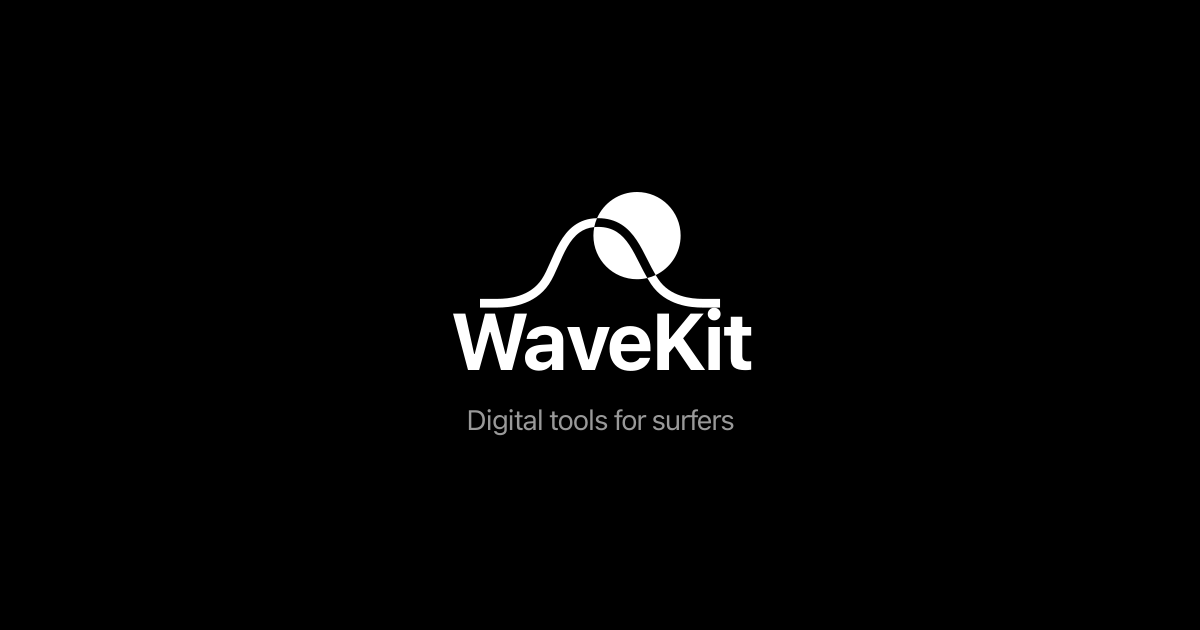
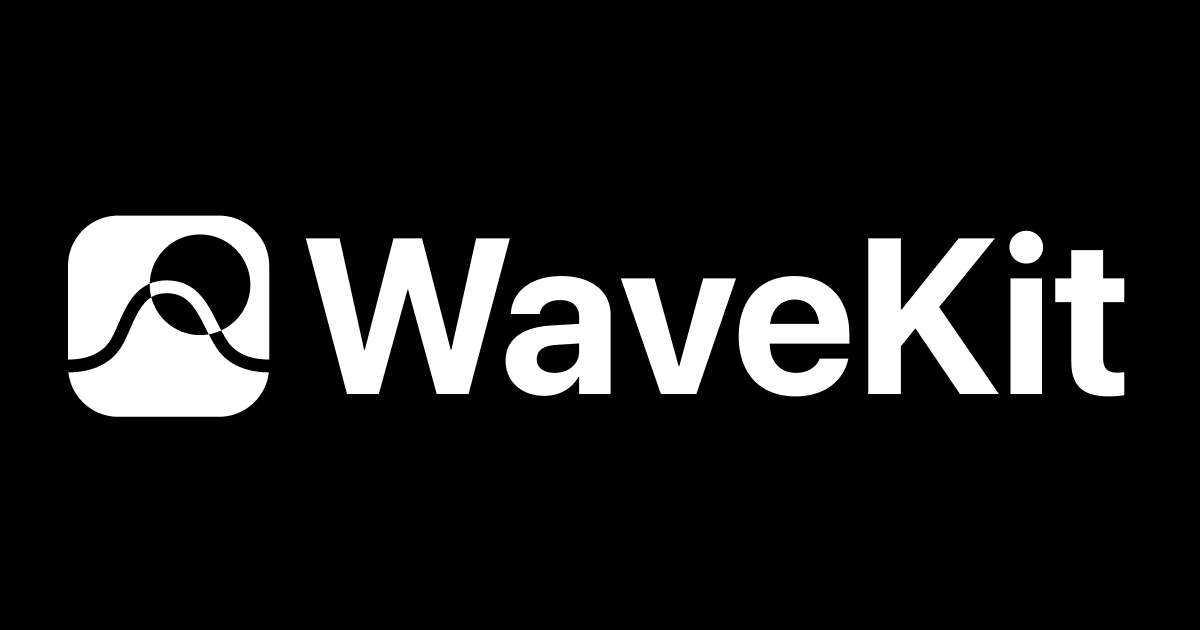
Close #9 #10 #11: OG image, README URL, calendar name prefix
- docs/og-image.png: new 1200×630 OG image from Figma
- README: add production URL jheftmann.github.io/wavekit/
- ICSGenerator: prefix calendar names with 🌊 (e.g. "🌊 Lower Trestles")

Changed region(s): [[0.0308, 0.3016, 0.9558, 0.6937]]

diff --git a/WaveKit/Services/ICSGenerator.swift b/WaveKit/Services/ICSGenerator.swift
@@ -18,7 +18,7 @@ struct ICSGenerator {
             "BEGIN:VCALENDAR",
             "VERSION:2.0",
             "PRODID:-//WaveKit//Surf Forecast//EN",
-            "X-WR-CALNAME:\(escapeText(forecast.spotName))",
+            "X-WR-CALNAME:🌊 \(escapeText(forecast.spotName))",
             "X-WR-CALDESC:Surf forecast for \(escapeText(forecast.spotName))",
             "CALSCALE:GREGORIAN",
             "METHOD:PUBLISH",

diff --git a/README.md b/README.md
@@ -1,5 +1,7 @@
 # WaveKit
 
+**https://jheftmann.github.io/wavekit/**
+
 A macOS menu bar app for tracking surf conditions at your favorite spots using Surfline data.
 
 ## Description
